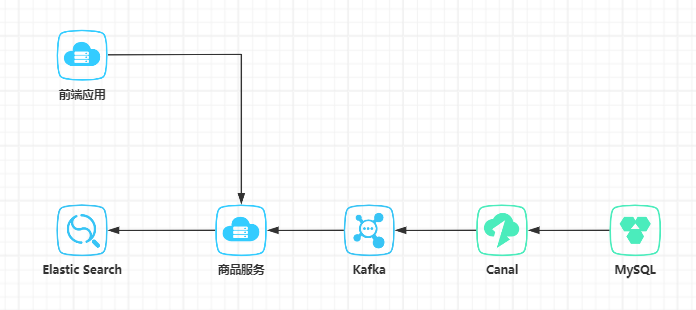
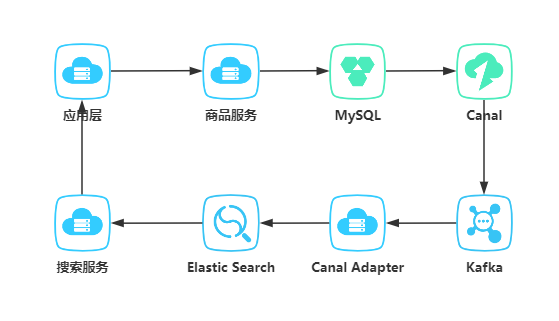
完善实战内容

Changed region(s): [[0.0608, 0.0871, 0.9732, 0.9], [0.3649, 0.1161, 0.4562, 0.1742], [0.6082, 0.1161, 0.6691, 0.1452]]

diff --git a/src/chapter5/search_architecture.md b/src/chapter5/search_architecture.md
@@ -14,12 +14,14 @@
 
 1. 商品表结构
 ```sql
-CREATE TABLE `product_info`  (
+CREATE TABLE `sku_info`  (
   `id` int(11) NOT NULL AUTO_INCREMENT,
+  `spu_id` int(11) NOT NULL DEFAULT 0 COMMENT 'spuId',
+  `category_name` varchar(32) CHARACTER SET utf8mb4 COLLATE utf8mb4_general_ci NOT NULL DEFAULT '' COMMENT '类目',
   `product_name` varchar(64) CHARACTER SET utf8mb4 COLLATE utf8mb4_general_ci NOT NULL COMMENT '标题',
   `price` decimal(10, 2) NOT NULL DEFAULT 0.00 COMMENT '价格',
-  `images` varchar(255) CHARACTER SET utf8mb4 COLLATE utf8mb4_general_ci NOT NULL COMMENT '图片',
-  `attrs` varchar(255) CHARACTER SET utf8mb4 COLLATE utf8mb4_general_ci NOT NULL COMMENT '商品属性',
+  `images` varchar(255) CHARACTER SET utf8mb4 COLLATE utf8mb4_general_ci NOT NULL DEFAULT '' COMMENT '图片',
+  `attrs` varchar(255) CHARACTER SET utf8mb4 COLLATE utf8mb4_general_ci NOT NULL DEFAULT '' COMMENT '属性',
   `created_by` varchar(32) CHARACTER SET utf8mb4 COLLATE utf8mb4_general_ci NOT NULL DEFAULT 'system' COMMENT '创建人',
   `created_time` datetime NOT NULL DEFAULT CURRENT_TIMESTAMP COMMENT '创建时间',
   `updated_by` varchar(32) CHARACTER SET utf8mb4 COLLATE utf8mb4_general_ci NOT NULL DEFAULT 'system' COMMENT '更新人',
@@ -32,5 +34,73 @@ CREATE TABLE `product_info`  (
 2. 初始化数据
 
 ```sql
-
+INSERT INTO `sku_info` VALUES (1, 1, '手机', '新款现货Apple/苹果 iPhone 14 Pro国行苹果14promax双卡正品手机', 6349.00, '', '[{\"name\":\"颜色\",\"value\":\"黑色\"},{\"name\":\"内存\",\"value\":\"64G\"}]', 'system', '2023-11-14 09:42:57', 'system', '2023-11-14 17:11:58', 0);
+INSERT INTO `sku_info` VALUES (2, 1, '手机', '新款现货Apple/苹果 iPhone 14 Pro国行苹果14promax双卡正品手机', 6349.00, '', '[{\"name\":\"颜色\",\"value\":\"白色\"},{\"name\":\"内存\",\"value\":\"64G\"}]', 'system', '2023-11-14 16:16:10', 'system', '2023-11-14 17:12:00', 0);
+INSERT INTO `sku_info` VALUES (3, 1, '手机', '新款现货Apple/苹果 iPhone 14 Pro国行苹果14promax双卡正品手机', 6851.00, '', '[{\"name\":\"颜色\",\"value\":\"白色\"},{\"name\":\"内存\",\"value\":\"128G\"}]', 'system', '2023-11-14 16:16:23', 'system', '2023-11-14 17:12:00', 0);
+INSERT INTO `sku_info` VALUES (4, 2, '手机', 'Apple/苹果 iPhone 12手机国行全网通双卡5G正品苹果12现货发顺丰', 2150.00, ' ', '[{\"name\":\"颜色\",\"value\":\"白色\"},{\"name\":\"内存\",\"value\":\"64G\"}]', 'system', '2023-11-14 16:30:16', 'system', '2023-11-14 17:12:00', 0);
+INSERT INTO `sku_info` VALUES (5, 2, '手机', 'Apple/苹果 iPhone 12手机国行全网通双卡5G正品苹果12现货发顺丰', 2790.00, '', '[{\"name\":\"颜色\",\"value\":\"白色\"},{\"name\":\"内存\",\"value\":\"128G\"}]', 'system', '2023-11-14 16:33:05', 'system', '2023-11-14 17:12:00', 0);
+INSERT INTO `sku_info` VALUES (6, 2, '手机', 'Apple/苹果 iPhone 12手机国行全网通双卡5G正品苹果12现货发顺丰', 2800.00, '', '[{\"name\":\"颜色\",\"value\":\"黑色\"},{\"name\":\"内存\",\"value\":\"128G\"}]', 'system', '2023-11-14 16:33:06', 'system', '2023-11-14 17:12:00', 0);
+INSERT INTO `sku_info` VALUES (7, 3, '水果', '正宗新疆阿克苏冰糖心苹果10斤当季新鲜水果丑苹果时令红富士整箱', 49.00, '', '[{\"name\":\"重量\",\"value\":\"5kg\"}]', 'system', '2023-11-14 16:35:15', 'system', '2023-11-14 17:12:03', 0);
 ```
+
+## 5.1.3 ES映射设计
+
+使用IK分词器，配置同义词
+```json
+PUT product_index
+{
+  "settings": {
+    "analysis": {
+      "analyzer": {
+        "my_ik_smart": {
+          "tokenizer": "ik_smart",
+          "filter": [
+            "synonym"
+          ]
+        },
+        "my_ik_max_word": {
+          "tokenizer": "ik_max_word",
+          "filter": [
+            "synonym"
+          ]
+        }
+      },
+      "filter": {
+        "synonym": {
+          "type": "synonym",
+          "synonyms_path": "analysis/synonym.txt"
+        }
+      }
+    }
+  },
+  "mappings": {
+    "properties": {
+      "categoryName": {
+        "type": "text",
+        "analyzer": "my_ik_max_word",
+        "search_analyzer": "my_ik_smart"
+      },
+      "productName": {
+        "type": "text",
+        "analyzer": "my_ik_max_word",
+        "search_analyzer": "my_ik_smart"
+      },
+      "price": {
+        "type": "double"
+      },
+      "attrs":{
+        "type": "nested",
+        "properties": {
+          "name": {
+            "type": "keyword"
+          },
+          "value": {
+            "type": "keyword"
+          }
+        }
+      }
+    }
+  }
+}
+```
+检索的存储使用`ik_max_word`模式，尽量细分。搜索时使用`ik_smart`模式

diff --git a/src/chapter5/canal_mysql_sync_data.md b/src/chapter5/canal_mysql_sync_data.md
@@ -1,1 +1,45 @@
 # 5.2 使用Canal进行MySQL数据同步
+
+## 5.2.1 开启MySQL的binlog模式
+
+这里要注意本书使用的MySQL版本是`5.7`
+
+
+### 1. 开启MySQL的binlog
+通过配置 /etc/my.cnf 或 /etc/mysql/mysql.conf.d/mysqld.cnf 配置文件的 log-bin 选项：
+
+```shell
+log_bin=ON
+server-id=1001
+binlog-format=ROW
+```
+配置后重启MySQL，根据语句查询是否开启
+
+### 2. 判断MySQL是否已经开启binlog
+```sql
+show variables like 'log_bin';
+```
+`log_bin=on` 表示开启
+
+### 3. 查看binlog模式
+```sql
+show global variables like "binlog_format%";
+```
+`binlog_format=row` 表示行模式
+
+## 5.2.2 安装Kafka
+安装Kafka参考：[点击查看](https://www.cnblogs.com/chaosopen/p/17831418.html)
+
+## 5.2.3 安装Canal
+官方参考安装：[点击查看](https://github.com/alibaba/canal/wiki/QuickStart)
+
+## 5.2.4 配置Canal-Adapter
+官方参考安装：[点击查看](https://github.com/alibaba/canal/wiki/Sync-ES)
+
+## 5.2.5 测试数据监听发送
+
+1. 添加数据
+
+
+2. 验证ES是否接收数据
+

diff --git a/src/chapter4/index.md b/src/chapter4/index.md
@@ -7,6 +7,6 @@
 * [4.1：架构设计](architecture_design.md)
 * [4.2：内部工作流程](workflow.md)
 * [4.3：深入理解倒排索引](inverted_index.md)
-* [4.4：评分模型TF/IDF算法](score_model.md)
+* [4.4：评分模型](score_model.md)
 * [4.5：ES中Master选举机制](score_model.md)
 * [4.6：内部缓存原理](data_buffer.md)

diff --git a/src/chapter4/score_model.md b/src/chapter4/score_model.md
@@ -1,4 +1,4 @@
-# 4.4 评分模型 TF/IDF算法
+# 4.4 评分模型
 
 ## 4.4.1 评分模型
 
